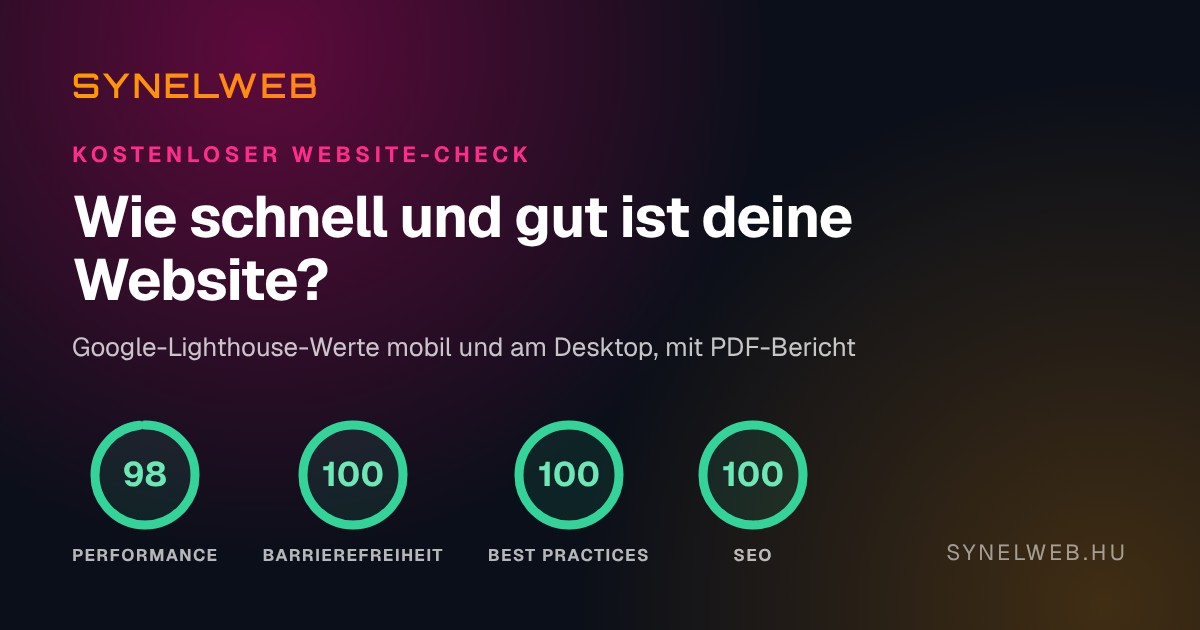
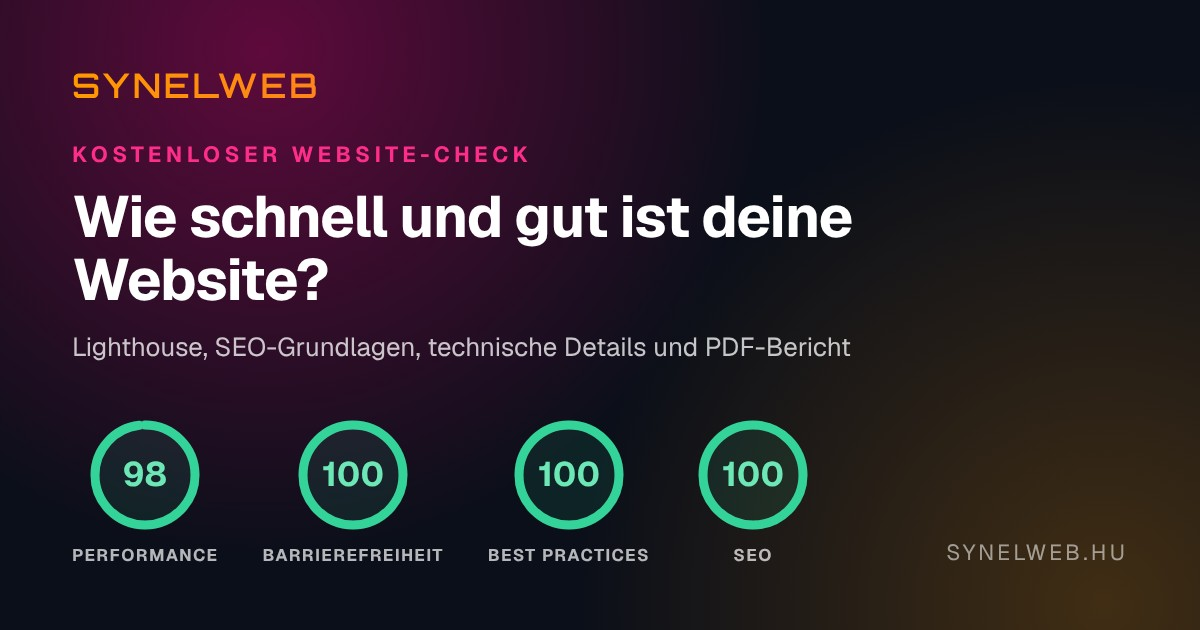
Site check: describe everything the check now does
The check is more than a Lighthouse test now, so the intro, the progress
steps, the "what does it measure" section (+ SEO basics, technical
details, platform), the closing note, the page title and description
and the share images (hu/en/de) say so: Lighthouse scores, SEO basics
incl. structured data, sitemap and llms.txt, technical details incl.
fonts, caching, code splitting and video formats, the platform, and the
PDF report.

Claude-Session: https://claude.ai/code/session_014AVKdrs6HkhbptGnooKDRE

Changed region(s): [[0.0617, 0.5127, 0.7092, 0.573]]

diff --git a/src/seo.ts b/src/seo.ts
@@ -58,9 +58,9 @@ export const PAGE_SEO: Record<SupportedLang, Record<KnownLogicalPath, SeoEntry>>
         "Google Search ads set up and managed by a Google Ads Search certified developer: keyword research, conversion tracking, monthly reports and transparent pricing.",
     },
     "/site-check": {
-      title: "Free Website Check – Speed, SEO & Accessibility | SynelWeb",
+      title: "Free Website Check: Speed, SEO & Tech | SynelWeb",
       description:
-        "Check your website for free with Google Lighthouse: speed, SEO, accessibility and Core Web Vitals on mobile and desktop, with the biggest fixes.",
+        "Free website check: Lighthouse scores, SEO basics, technical details and the platform a site is built with, on mobile and desktop, with a PDF report.",
     },
     "/projects": {
       title: "Website Portfolio & Projects | SynelWeb",
@@ -110,9 +110,9 @@ export const PAGE_SEO: Record<SupportedLang, Record<KnownLogicalPath, SeoEntry>>
         "Google keresőhirdetés beállítása és kezelése Google Ads Search tanúsítvánnyal: kulcsszókutatás, konverziómérés és havi riport – Sopronból, országosan.",
     },
     "/site-check": {
-      title: "Ingyenes weboldal-ellenőrzés: sebesség és SEO | SynelWeb",
+      title: "Weboldal-ellenőrzés: sebesség, SEO, technika | SynelWeb",
       description:
-        "Mérd le ingyen a weboldalad a Google Lighthouse-szal: sebesség, SEO, akadálymentesség és Core Web Vitals mobilon és asztalin, javítási javaslatokkal.",
+        "Ingyenes weboldal-ellenőrzés: Lighthouse-pontszámok, SEO-alapok, technikai részletek és az oldal platformja mobilon és asztalin, PDF riporttal.",
     },
     "/projects": {
       title: "Weboldal referenciák és projektek | SynelWeb",
@@ -162,9 +162,9 @@ export const PAGE_SEO: Record<SupportedLang, Record<KnownLogicalPath, SeoEntry>>
         "Google-Suchanzeigen einrichten und betreuen lassen, mit Google-Ads-Search-Zertifizierung: Keyword-Recherche, Conversion-Tracking, monatliche Berichte.",
     },
     "/site-check": {
-      title: "Kostenloser Website-Check: Speed & SEO | SynelWeb",
+      title: "Kostenloser Website-Check: Speed, SEO, Technik | SynelWeb",
       description:
-        "Prüfe deine Website kostenlos mit Google Lighthouse: Speed, SEO, Barrierefreiheit und Core Web Vitals – mobil und am Desktop, mit konkreten Tipps.",
+        "Kostenloser Website-Check: Lighthouse-Werte, SEO-Grundlagen, technische Details und die Plattform der Seite, mobil und am Desktop, mit PDF-Bericht.",
     },
     "/projects": {
       title: "Webdesign Referenzen & Projekte | SynelWeb",

diff --git a/pages/site-check/+Page.tsx b/pages/site-check/+Page.tsx
@@ -2,8 +2,11 @@ import { useEffect, useId, useRef, useState, type FormEvent } from "react";
 import {
   AccessibilityIcon,
   ArrowRightIcon,
+  CpuIcon,
   FileDownIcon,
+  FileSearchIcon,
   GaugeIcon,
+  LayersIcon,
   LightbulbIcon,
   LoaderCircleIcon,
   MonitorIcon,
@@ -44,6 +47,12 @@ const ABOUT_ICONS: Record<(typeof SCORE_KEYS)[number], LucideIcon> = {
   bestPractices: ShieldCheckIcon,
   seo: SearchIcon,
 };
+// What the check adds beyond the four Lighthouse scores.
+const EXTRA_ABOUT: Array<{ key: "seoBasics" | "tech" | "platform"; Icon: LucideIcon }> = [
+  { key: "seoBasics", Icon: FileSearchIcon },
+  { key: "tech", Icon: CpuIcon },
+  { key: "platform", Icon: LayersIcon },
+];
 const PROGRESS_STEP_MS = 7000;
 
 function hostOf(url: string) {
@@ -562,6 +571,23 @@ export default function Page() {
               </li>
             );
           })}
+          {EXTRA_ABOUT.map(({ key, Icon }) => (
+            // The odd one out spans the row instead of leaving a gap.
+            <li
+              key={key}
+              className={`fancy-card flex gap-4 rounded-2xl p-5 ${key === "platform" ? "sm:col-span-2" : ""}`}
+            >
+              <span className="fancy-tile flex size-11 shrink-0 items-center justify-center rounded-xl">
+                <Icon className="size-5 text-(--accent)" aria-hidden="true" />
+              </span>
+              <div>
+                <h3 className="font-semibold text-white">{t(`siteCheck.about.titles.${key}`)}</h3>
+                <p className="mt-1 text-sm leading-6 text-white/75">
+                  {t(`siteCheck.about.items.${key}`)}
+                </p>
+              </div>
+            </li>
+          ))}
         </ul>
         <p className="mx-auto mt-6 max-w-3xl text-center text-xs leading-5 text-white/50">
           {t("siteCheck.note")}

diff --git a/pages/site-check/+Page.test.tsx b/pages/site-check/+Page.test.tsx
@@ -158,7 +158,9 @@ describe("site check page", () => {
 
     checkSite("pelda.hu");
 
-    expect(await screen.findByText("SEO-alapok")).toBeInTheDocument();
+    // The headings also appear in "What the check measures" further down.
+    expect(await screen.findByText(/Nincs strukturált adat/)).toBeInTheDocument();
+    expect(screen.getAllByText("SEO-alapok")).toHaveLength(2);
     expect(screen.getByText(/Nincs strukturált adat/)).toBeInTheDocument();
     // Passed checks wait behind "+N OK".
     expect(screen.queryByText("Pontosan egy fő címsor van.")).toBeNull();
@@ -172,7 +174,7 @@ describe("site check page", () => {
       screen.getByText("Valószínűleg: WordPress + Elementor (astra sablon).")
     ).toBeInTheDocument();
     expect(screen.getByText(/a böngésző rakja össze JavaScripttel/)).toBeInTheDocument();
-    expect(screen.getByText("Technikai részletek")).toBeInTheDocument();
+    expect(screen.getAllByText("Technikai részletek")).toHaveLength(2);
     expect(screen.getByText(/7 betűfájl \(210 kB\)/)).toBeInTheDocument();
   });
 
@@ -183,6 +185,6 @@ describe("site check page", () => {
     checkSite("pelda.hu");
 
     expect(await screen.findByText(/SEO-alapokat most nem sikerült lekérni/)).toBeInTheDocument();
-    expect(screen.queryByText("Technikai részletek")).toBeNull();
+    expect(screen.getAllByText("Technikai részletek")).toHaveLength(1);
   });
 });
